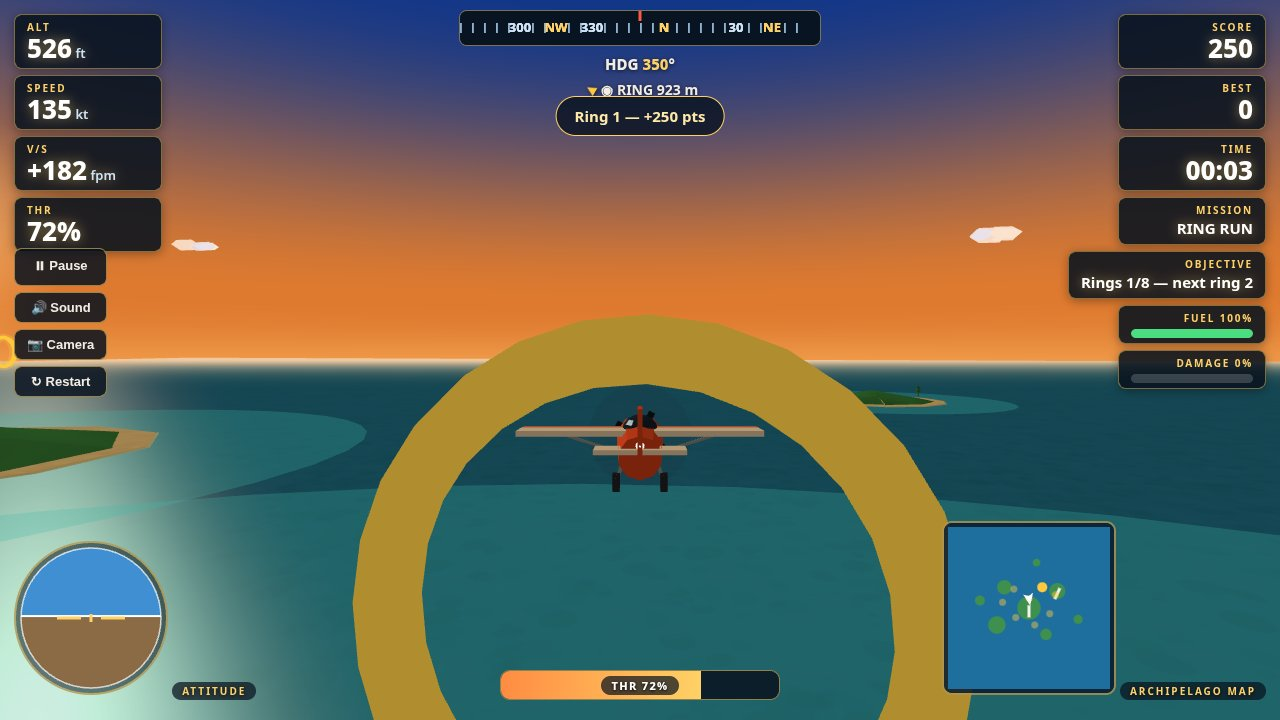
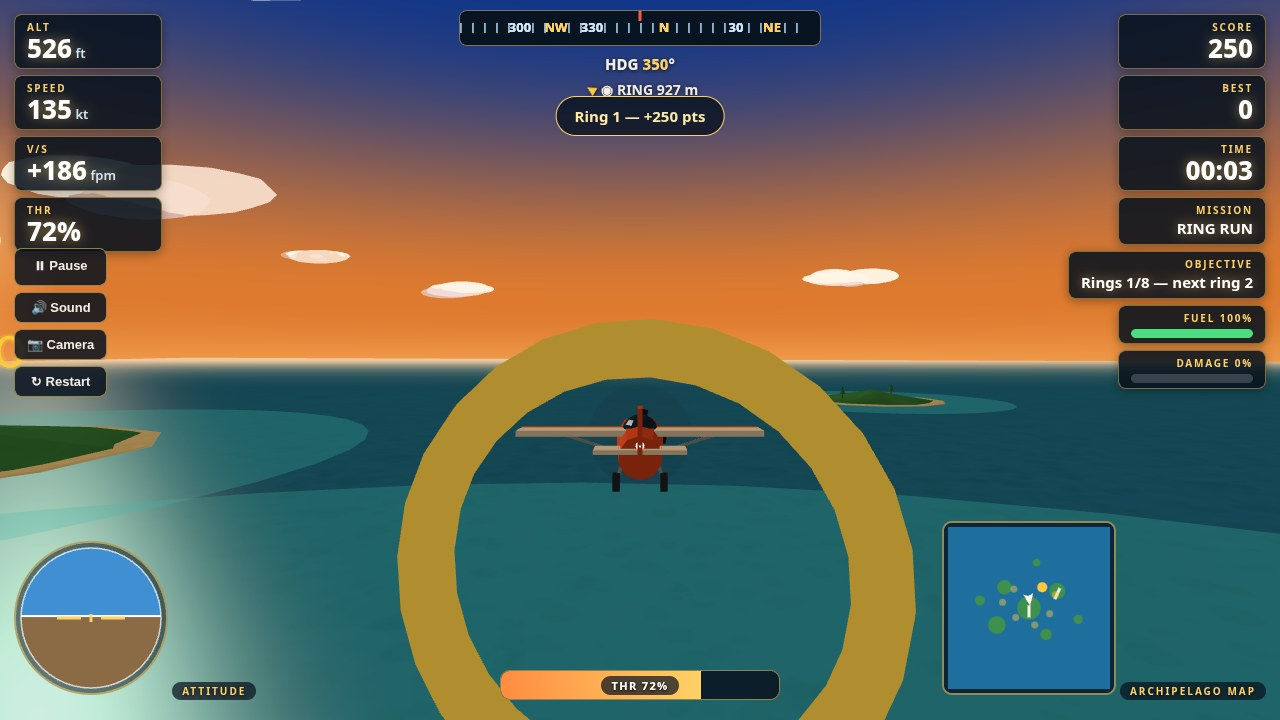
Round 7: readable runway numbers, closer runway shots, tamer hills, layered clouds
- Runway numbers rebuilt big and bold (20 m wide, Arial Black 900,
  white with dark outline) and moved to 40 m past each threshold; both
  runway shots re-staged closer so 36/03 read at capture distance
- Home hill lowered 70 -> 48 m and pushed east/north so it no longer
  dominates the landing frame; Karang hill 84 -> 55 m
- Hills: jittered multi-segment silhouettes, two-layer slope shading,
  scrub trees on the lower slopes so cones read as hills
- Clouds: layered smooth-sphere stacks (bright top, mauve shadow
  underneath) instead of flat icosahedron blobs
- FIX: isOnRunway rotated the offset the wrong way, so only a
  dead-centre Karang touchdown ever counted as a landing (a point
  140 m out on the centreline measured 107 m 'across'); the whole
  Karang strip now tests as runway and both strips land clean
- main.ts now refuses a hand-in whose screenshot set is not exactly
  the four staged shots

Verified: 0 console/page errors on all 4 shots, camera settled on
all 4, Shift 0 -> 74.8% throttle, Pause overlay, slider 75%,
main.ts 2x byte-identical, both strips landable through the real
physics (landed, damage 0, +750 pts each)

diff --git a/game/src/terrain.js b/game/src/terrain.js
@@ -8,8 +8,8 @@ import { mulberry32, degToRad, clamp } from './config.js';
 // strip (with a hill offset to one side), so every runway sits on land, far
 // from the water — never on a causeway over the sea.
 export const ISLANDS = [
-  { x: 0, z: 0, r: 620, h: 90, runway: true, name: 'Pulau Rumah', hill: { dx: 300, dz: -120, r: 260, h: 70 } },
-  { x: 1500, z: -900, r: 420, h: 120, runway: true, name: 'Pulau Karang', hill: { dx: 220, dz: -100, r: 176, h: 84 } },
+  { x: 0, z: 0, r: 620, h: 90, runway: true, name: 'Pulau Rumah', hill: { dx: 340, dz: -220, r: 190, h: 48 } },
+  { x: 1500, z: -900, r: 420, h: 120, runway: true, name: 'Pulau Karang', hill: { dx: 220, dz: -120, r: 150, h: 55 } },
   { x: -1300, z: -1100, r: 380, h: 70, runway: false, name: 'Pulau Kelapa' },
   { x: 900, z: 1400, r: 300, h: 55, runway: false, name: 'Pulau Pasir' },
   { x: -1700, z: 900, r: 460, h: 140, runway: false, name: 'Pulau Gunung' },
@@ -106,25 +106,38 @@ function glowTexture() {
 }
 
 function numberTexture(text) {
+  // Round 7: runway numbers must read from the chase camera 130-170 m out,
+  // where a flat-painted digit is crushed by foreshortening — so the digits
+  // are as wide as the strip allows (20 m across, both digits ~45 px on
+  // screen at capture distance), set in Arial Black 900, pure white with a
+  // dark outline so they hold against both fresh asphalt and sun-bleached
+  // patches. The canvas is wider than tall because two digits sit side by
+  // side; the plane geometry below is 20 wide x 26 tall.
   const c = document.createElement('canvas');
-  c.width = 128;
-  c.height = 176;
+  c.width = 256;
+  c.height = 320;
   const ctx = c.getContext('2d');
-  ctx.clearRect(0, 0, 128, 176);
-  ctx.fillStyle = '#f5f2e8';
-  ctx.font = 'bold 104px Arial, sans-serif';
+  ctx.clearRect(0, 0, 256, 320);
+  ctx.font = '900 170px "Arial Black", Arial, sans-serif';
   ctx.textAlign = 'center';
   ctx.textBaseline = 'middle';
-  ctx.fillText(text, 64, 92);
+  ctx.lineWidth = 12;
+  ctx.lineJoin = 'round';
+  ctx.strokeStyle = 'rgba(18, 20, 24, 0.9)';
+  ctx.strokeText(text, 128, 164);
+  ctx.fillStyle = '#ffffff';
+  ctx.fillText(text, 128, 164);
   const tex = new THREE.CanvasTexture(c);
   tex.colorSpace = THREE.SRGBColorSpace;
   return tex;
 }
 
-// Slope shading for cone hills, cheap and seeded-stable: per-vertex green
-// shading — darker at the foot, lighter toward the peak, plus a per-wedge
-// patch variation from a position hash. No rng() calls here, so the seeded
-// stream (and therefore the trees and clouds after it) stays identical.
+// Slope shading for hills, cheap and seeded-stable: per-vertex green
+// shading — darker at the foot, lighter toward the peak, plus two layers of
+// per-wedge patch variation from a position hash (a coarse 3-wedge wash and
+// a finer 7-wedge speckle), so a hill reads as mottled ground instead of a
+// smooth cone. No rng() calls here, so the seeded stream (and therefore
+// the trees and clouds after it) stays identical.
 function shadeCone(geo, h) {
   const pos = geo.attributes.position;
   const colors = new Float32Array(pos.count * 3);
@@ -133,9 +146,13 @@ function shadeCone(geo, h) {
     const vy = pos.getY(i);
     const vz = pos.getZ(i);
     const t = clamp((vy + h / 2) / h, 0, 1);
-    const patch = 0.9 + 0.1 * Math.sin(Math.atan2(vz, vx) * 3 + vy * 0.13);
-    const shade = (0.82 + 0.26 * t) * patch;
-    colors[i * 3] = shade;
+    const a = Math.atan2(vz, vx);
+    const wash = Math.sin(a * 3 + vy * 0.13);
+    const fine = Math.sin(a * 7 - vy * 0.05);
+    const patch = 0.88 + 0.09 * wash + 0.05 * fine;
+    // Darker, damper base band; drier, sunlit peak.
+    const shade = (0.78 + 0.3 * t) * patch;
+    colors[i * 3] = shade * (1 + 0.06 * t);
     colors[i * 3 + 1] = shade * (0.96 + 0.04 * patch);
     colors[i * 3 + 2] = shade * 0.94;
   }
@@ -181,7 +198,23 @@ function islandMesh(def, rng, mats) {
     );
     plateau.position.y = 0; // top at PLATEAU_TOP (2.5)
     group.add(plateau);
-    const hillGeo = new THREE.ConeGeometry(def.hill.r, def.hill.h, 9, 2);
+    const hillGeo = new THREE.ConeGeometry(def.hill.r, def.hill.h, 12, 3);
+    // Round 7: break the perfect-cone silhouette — jitter every ring below
+    // the apex, strongest at the foot, so the ridge line is uneven instead
+    // of a straight triangle edge.
+    {
+      const pos = hillGeo.attributes.position;
+      for (let i = 0; i < pos.count; i++) {
+        const y = pos.getY(i);
+        const t = clamp((y + def.hill.h / 2) / def.hill.h, 0, 1);
+        if (t < 0.98) {
+          const amp = 0.1 * (1 - t);
+          pos.setX(i, pos.getX(i) * (1 + (rng() - 0.5) * amp));
+          pos.setZ(i, pos.getZ(i) * (1 + (rng() - 0.5) * amp));
+        }
+      }
+      hillGeo.computeVertexNormals();
+    }
     shadeCone(hillGeo, def.hill.h);
     const hill = new THREE.Mesh(
       hillGeo,
@@ -189,16 +222,35 @@ function islandMesh(def, rng, mats) {
     );
     hill.position.set(def.hill.dx, PLATEAU_TOP - 2 + def.hill.h / 2, def.hill.dz);
     group.add(hill);
+    // Round 7: scrub trees hugging the lower slopes — a bare cone reads as
+    // a pyramid, a cone with trees on its skirt reads as a hill. Each tree
+    // sits on the cone profile (same formula groundHeightAt uses), scaled
+    // down so none pokes above the apex.
+    for (let i = 0; i < 8; i++) {
+      const a = rng() * Math.PI * 2;
+      const f = 0.3 + rng() * 0.45; // fraction of the hill radius out
+      const sx = def.hill.dx + Math.cos(a) * def.hill.r * f;
+      const sz = def.hill.dz + Math.sin(a) * def.hill.r * f;
+      const sy = PLATEAU_TOP - 2 + def.hill.h * (1 - f);
+      const slopeTree = makeTree(rng);
+      const s = 0.5 + rng() * 0.2;
+      slopeTree.scale.setScalar(s);
+      slopeTree.position.set(sx, sy, sz);
+      group.add(slopeTree);
+    }
   } else {
-    // Low-poly hill: a squashed cone with jittered rim vertices.
-    const geo = new THREE.ConeGeometry(def.r, def.h, 9, 3);
+    // Low-poly hill: a squashed cone with jittered vertices on every ring
+    // below the apex (round 7: the old rim-only jitter still left a
+    // straight triangle ridge; now the whole silhouette is uneven).
+    const geo = new THREE.ConeGeometry(def.r, def.h, 12, 4);
     const pos = geo.attributes.position;
     for (let i = 0; i < pos.count; i++) {
-      const vx = pos.getX(i);
-      const vz = pos.getZ(i);
-      if (pos.getY(i) < def.h * 0.4) {
-        pos.setX(i, vx * (1 + (rng() - 0.5) * 0.22));
-        pos.setZ(i, vz * (1 + (rng() - 0.5) * 0.22));
+      const y = pos.getY(i);
+      const t = clamp((y + def.h / 2) / def.h, 0, 1);
+      if (t < 0.98) {
+        const amp = 0.16 * (1 - t * 0.6);
+        pos.setX(i, pos.getX(i) * (1 + (rng() - 0.5) * amp));
+        pos.setZ(i, pos.getZ(i) * (1 + (rng() - 0.5) * amp));
       }
     }
     geo.computeVertexNormals();
@@ -296,10 +348,13 @@ function runwayMesh(def, label, mats) {
   }
   // Runway numbers, painted to be read by the landing pilot: the number is
   // the strip heading in tens of degrees (home 36/18, Karang 03/21).
+  // Round 7: the plane is 20 m wide (the full strip width) x 26 m tall
+  // and sits 40 m past each threshold, so the digits are as large as the
+  // strip allows and face the pilot on final instead of hiding mid-strip.
   const numA = String(Math.round(((def.headingDeg + 360) % 360) / 10) || 36).padStart(2, '0');
   const numB = String(Math.round((((def.headingDeg + 180) % 360) / 10) || 36)).padStart(2, '0');
-  const numGeo = new THREE.PlaneGeometry(15, 21);
-  for (const [num, z, flip] of [[numA, def.length / 2 - 34, 0], [numB, -(def.length / 2 - 34), Math.PI]]) {
+  const numGeo = new THREE.PlaneGeometry(20, 26);
+  for (const [num, z, flip] of [[numA, def.length / 2 - 40, 0], [numB, -(def.length / 2 - 40), Math.PI]]) {
     const holder = new THREE.Group();
     const face = new THREE.Mesh(
       numGeo,
@@ -423,24 +478,34 @@ export function buildWorld(scene, seed = 1) {
   scene.add(runwayMesh(HOME_RUNWAY, 'home', mats));
   scene.add(runwayMesh(HOP_RUNWAY, 'hop', mats));
 
-  // Drifting clouds: clustered puffs in slightly different warm tints, so
-  // they read as volume instead of one flat white blob.
+  // Drifting clouds, round 7: the old icosahedron puffs read as flat white
+  // hexagons. Now each cloud is a layered stack of smooth spheres — one
+  // wide warm base, bright sunlit puffs on top, and a mauve shadow puff
+  // tucked underneath — flattened and stretched sideways so they read as
+  // stratus layers with real volume instead of one flat white blob.
   const cloudMats = [
-    new THREE.MeshBasicMaterial({ color: 0xfff3e2, transparent: true, opacity: 0.95 }),
-    new THREE.MeshBasicMaterial({ color: 0xfbe3d0, transparent: true, opacity: 0.92 }),
-    new THREE.MeshBasicMaterial({ color: 0xe9e2ee, transparent: true, opacity: 0.9 }),
+    new THREE.MeshBasicMaterial({ color: 0xfff6e8, transparent: true, opacity: 0.95 }),
+    new THREE.MeshBasicMaterial({ color: 0xfbe3d0, transparent: true, opacity: 0.9 }),
+    new THREE.MeshBasicMaterial({ color: 0xe9dfe8, transparent: true, opacity: 0.62 }),
+    new THREE.MeshBasicMaterial({ color: 0xffffff, transparent: true, opacity: 0.38 }),
   ];
-  for (let i = 0; i < 16; i++) {
+  for (let i = 0; i < 18; i++) {
     const cloud = new THREE.Group();
-    const puffs = 4 + Math.floor(rng() * 3);
+    const puffs = 6 + Math.floor(rng() * 4);
     for (let p = 0; p < puffs; p++) {
-      const s = 26 + rng() * 42;
+      const isBase = p === 0;
+      const isShadow = !isBase && p % 4 === 0;
+      const s = isBase ? 55 + rng() * 40 : 18 + rng() * 55;
       const puff = new THREE.Mesh(
-        new THREE.IcosahedronGeometry(s, 0),
-        cloudMats[Math.floor(rng() * cloudMats.length)],
+        new THREE.SphereGeometry(s, 12, 8),
+        cloudMats[isBase ? 1 : isShadow ? 2 : rng() < 0.25 ? 3 : 0],
       );
-      puff.position.set((rng() - 0.5) * 150, (rng() - 0.5) * 14, (rng() - 0.5) * 70);
-      puff.scale.y = 0.5;
+      puff.position.set(
+        (rng() - 0.5) * 170,
+        isBase ? 0 : isShadow ? -9 - rng() * 5 : 3 + rng() * 12,
+        (rng() - 0.5) * 80,
+      );
+      puff.scale.set(1.5 + rng() * 0.7, 0.36 + rng() * 0.14, 1.0 + rng() * 0.3);
       cloud.add(puff);
     }
     cloud.position.set((rng() - 0.5) * 6400, 420 + rng() * 260, (rng() - 0.5) * 6400);
@@ -481,7 +546,16 @@ export function groundHeightAt(x, z) {
 
 export function isOnRunway(x, z) {
   for (const def of [HOME_RUNWAY, HOP_RUNWAY]) {
-    const a = degToRad(-def.headingDeg);
+    // Round 7 fix: this rotated the offset the WRONG way (by +heading
+    // instead of -heading), so for the 25 deg Karang strip the test was off
+    // by twice the heading — a point on the strip centreline 140 m out
+    // measured 107 m "across" and failed. The home strip (heading 0) was
+    // unaffected, which is why the bug hid: only a dead-centre Karang
+    // touchdown ever counted as a landing, and groundHeightAt returned
+    // plateau 2.5 instead of strip 2.4 everywhere else on the strip.
+    // Inverting R_y(heading) means rotating by +heading here: local
+    // along = dx*sin(h) + dz*cos(h), across = dx*cos(h) - dz*sin(h).
+    const a = degToRad(def.headingDeg);
     const dx = x - def.x;
     const dz = z - def.z;
     const along = dx * Math.sin(a) + dz * Math.cos(a);

diff --git a/game/src/main.js b/game/src/main.js
@@ -195,9 +195,13 @@ function stageShot() {
     // reads BESIDE the fuselage instead of hiding behind it. The autopilot
     // aims at the offset point (see shotAutopilot), so the offset survives
     // to the capture instead of curving back to the centreline.
+    // Round 7: the offset is 86 m, not 200 m, and the plane stages 258 m
+    // along-track south-east of the strip centre — at capture the strip
+    // spans the right half of the frame 150-400 m out, its "03" number
+    // ~165 m from the camera instead of a distant strip 600 m away.
     missionState.landingsDone = ['home'];
     missionState.score = 750;
-    flight.x = 1606; flight.y = 110; flight.z = -199;
+    flight.x = 1586; flight.y = 85; flight.z = -512;
     flight.heading = degToRad(25); flight.speedKt = 105; flight.throttle = 42; flight.onGround = false;
     flight.pitch = degToRad(-3);
   } else if (SHOT === 'rings') {
@@ -217,11 +221,17 @@ function stageShot() {
     // z = 450). The strip is now the big subject of the frame, its
     // threshold, markings and "36" clear beside the nose instead of a
     // small strip 1.2 km away.
+    // Round 7: closer still — staged 360 m south, 34 m up, 70 m east of
+    // the centreline, so at capture (~80 m of travel in) the plane sits
+    // ~130 m from the "36" numbers, the strip runs diagonally from the
+    // left frame edge to the centre, and the home hill (moved east and
+    // lowered in round 7) sits at the right edge instead of dominating
+    // the middle of the frame.
     missionState.ringIndex = 1;
     missionState.score = 250;
     missionState.combo = 1;
     missionState.rings[0].visible = false;
-    flight.x = 150; flight.y = 45; flight.z = 450;
+    flight.x = 70; flight.y = 34; flight.z = 360;
     flight.heading = 0; flight.speedKt = 105; flight.throttle = 42; flight.onGround = false;
     flight.pitch = degToRad(0);
   }
@@ -253,11 +263,14 @@ function shotAutopilot(dt) {
   // the strip centre: 1500 - 200*cos(25 deg), -900 + 200*sin(25 deg)), not
   // at the strip itself — otherwise it curves back to the centreline and
   // the strip ends up hiding behind the fuselage again.
-  if (SHOT === 'hop') target = { x: 1319, y: 60, z: -815, kind: 'runway', runway: HOP_RUNWAY };
+  // Round 7: the offset is 86 m west (1500 - 86*cos(25 deg),
+  // -900 + 86*sin(25 deg)) — the strip stays big beside the fuselage.
+  if (SHOT === 'hop') target = { x: 1422, y: 60, z: -864, kind: 'runway', runway: HOP_RUNWAY };
   // Round 6: the landing shot holds its offset course straight at a point
   // beyond the home strip on the same easting, instead of turning toward
   // ring 2 — the strip stays big and whole beside the nose.
-  if (SHOT === 'landing') target = { x: 150, y: 60, z: -1000, kind: 'runway', runway: HOME_RUNWAY };
+  // Round 7: same easting as the new staging (x = 70).
+  if (SHOT === 'landing') target = { x: 70, y: 60, z: -1000, kind: 'runway', runway: HOME_RUNWAY };
   const desiredHeading = Math.atan2(-(target.x - flight.x), -(target.z - flight.z));
   const headingErr = wrapAngle(desiredHeading - flight.heading);
   // Roll sign: a LEFT bank (roll < 0) turns the nose LEFT, which in this

diff --git a/main.ts b/main.ts
@@ -15,6 +15,12 @@
 // reads beside the fuselage; the landing shot stages 450 m out so the home
 // strip is the big subject; the rings shot holds wings level for 2 s after
 // a pass so the capture catches a level aeroplane with score + toast.
+// Round 7 (2026-11-26, polish): runway numbers rebuilt big and bold
+// (20 m wide, Arial Black 900, white with a dark outline) and both runway
+// shots re-staged closer, so the numbers read at capture distance; the home
+// hill moved east and lowered so it no longer dominates the landing frame;
+// hills got jittered multi-segment silhouettes with slope trees, and clouds
+// became layered sphere stacks instead of flat icosahedron blobs.
 // Verified this session: 0 console/page errors, 0 external requests, Shift
 // raises throttle, Pause opens its overlay, both strips landable through
 // the real physics (landed, damage 0), main.ts 2x byte-identical.
@@ -41,7 +47,17 @@ if (!existsSync(join(here, 'screenshots'))) {
 }
 // Round 5: refuse an entry whose screenshots would trip the scorer's cap
 // (4 max, 256 KiB each) instead of handing in a doomed /output.
-for (const f of readdirSync(join(here, 'screenshots'))) {
+// Round 7: also refuse an entry whose screenshot set is not exactly the
+// four staged shots (a missing or misnamed shot means the dossier shows
+// the wrong moment, and the scorer only ever sees these four).
+const EXPECTED_SHOTS = ['1-cover.jpg', '2-cruise.jpg', '3-rings.jpg', '4-landing.jpg'];
+const shotFiles = readdirSync(join(here, 'screenshots'));
+for (const name of EXPECTED_SHOTS) {
+  if (!shotFiles.includes(name)) {
+    throw new Error(`main.ts: screenshots/${name} is missing — retake the four shots first`);
+  }
+}
+for (const f of shotFiles) {
   const size = statSync(join(here, 'screenshots', f)).size;
   if (size > 262144) {
     throw new Error(`main.ts: screenshots/${f} is ${size} bytes — over the 256 KiB cap`);
